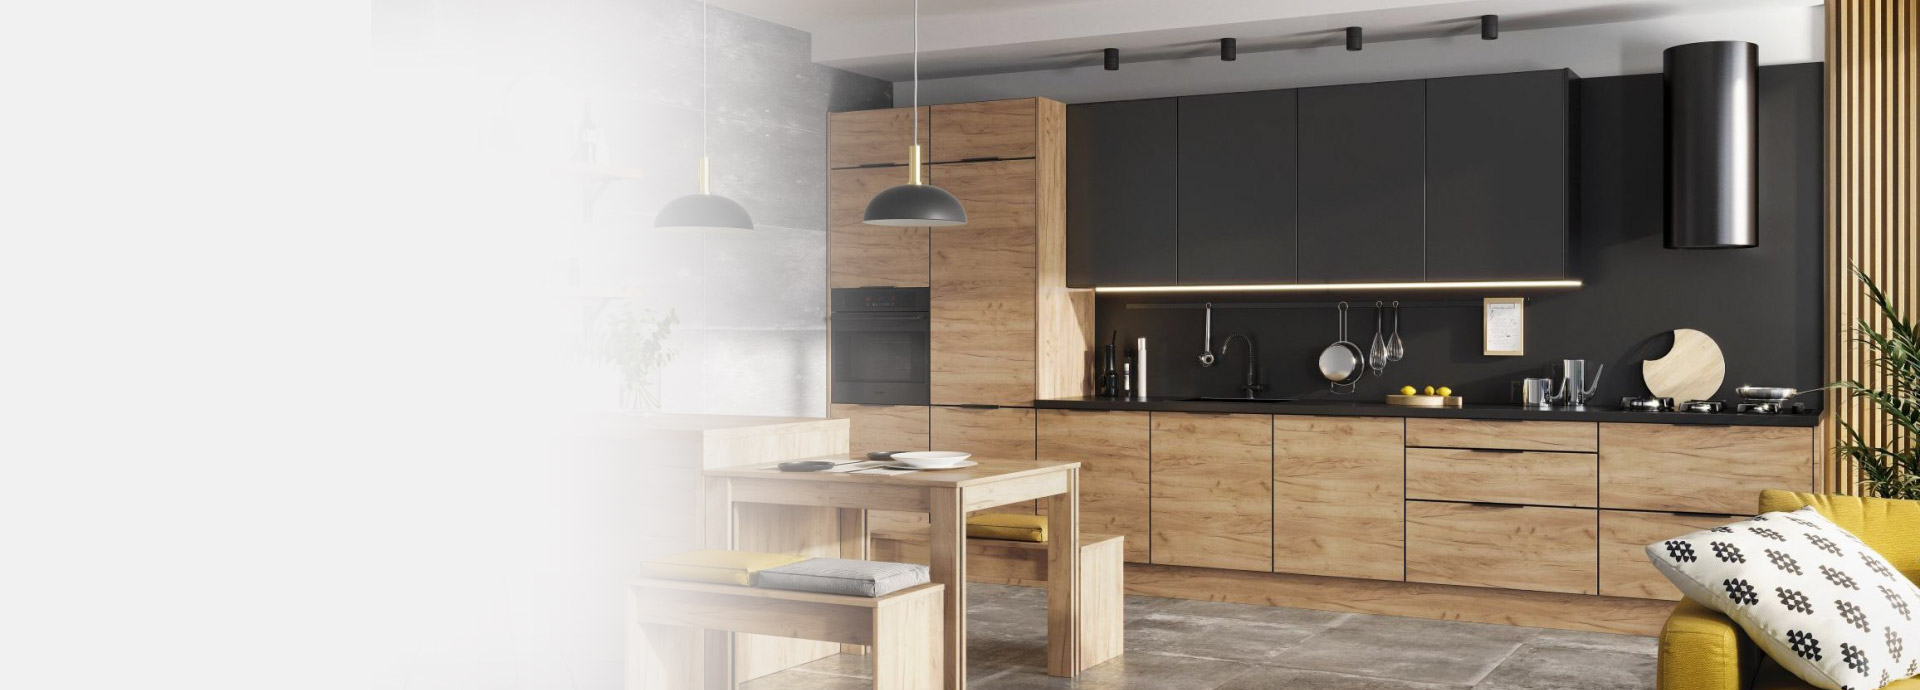
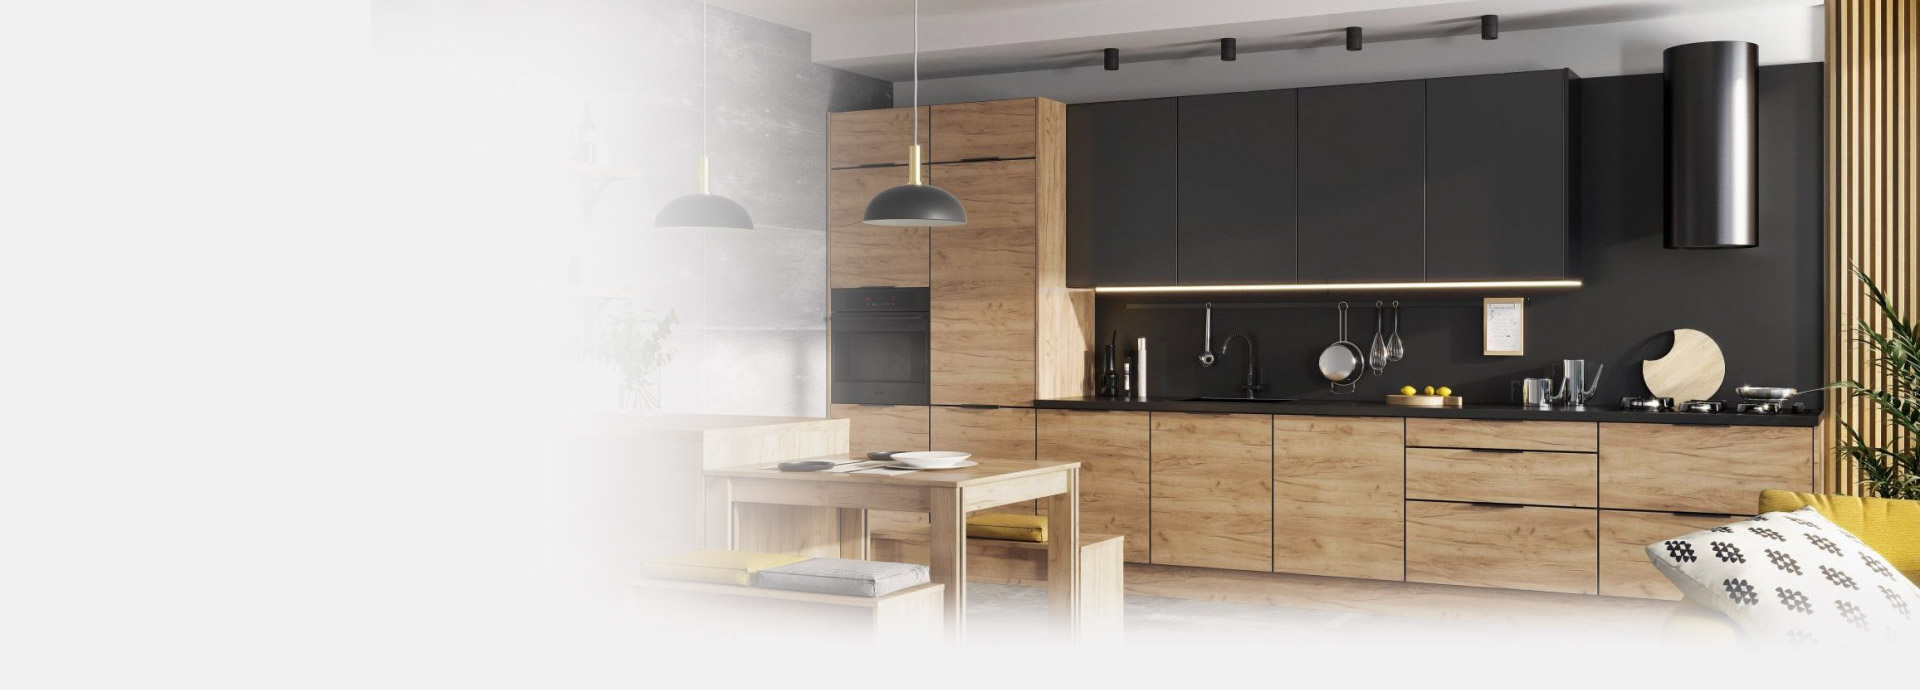
Poprawki

Changed region(s): [[0.3438, 0.8217, 1.0, 1.0]]

diff --git a/css/style.css b/css/style.css
@@ -83,6 +83,7 @@ body {
 .navbar {
   position: fixed;
   left: 0;
+  top: 0;
   right: 0;
   width: 100%;
   background-color: #fff;
@@ -134,11 +135,13 @@ body {
   transition: 0.2s;
   -webkit-transform: translateY(-200%);
           transform: translateY(-200%);
+  opacity: 0;
 }
 
 .menu_active {
   -webkit-transform: translateY(0);
           transform: translateY(0);
+  opacity: 1;
 }
 
 .menu__nav {
@@ -231,10 +234,11 @@ body {
 }
 
 .hero {
-  background: #f1f1f1 url("../img/hero/hero-bg.jpg") no-repeat center top 80px;
-  background-size: contain;
-  padding-top: 180px;
+  background: #f1f1f1 url("../img/hero/hero-bg.jpg") no-repeat center top;
+  background-size: cover;
+  padding-top: 120px;
   padding-bottom: 270px;
+  margin-top: 80px;
 }
 
 .hero__title {
@@ -251,8 +255,9 @@ body {
 
 @media (max-width: 991px) {
   .hero {
-    background-size: cover;
-    background-position: top left 30%;
+    margin-top: 60px;
+    background-size: 100%;
+    background-position: top right;
   }
 }
 /*# sourceMappingURL=style.css.map */

diff --git a/sass/blocks/_hero.sass b/sass/blocks/_hero.sass
@@ -1,8 +1,9 @@
 .hero
-    background: #f1f1f1 url('../img/hero/hero-bg.jpg') no-repeat center top 80px
-    background-size: contain
-    padding-top: 180px
+    background: #f1f1f1 url('../img/hero/hero-bg.jpg') no-repeat center top
+    background-size: cover
+    padding-top: 120px
     padding-bottom: 270px
+    margin-top: 80px
     &__title
         font-size: 30px
         margin-bottom: 40px
@@ -14,8 +15,9 @@
 
 @media (max-width: 991px)
     .hero
-        background-size: cover
-        background-position: top left 30%
+        margin-top: 60px
+        background-size: 100%
+        background-position: top right
     
 
         

diff --git a/sass/blocks/_navbar.sass b/sass/blocks/_navbar.sass
@@ -1,6 +1,7 @@
 .navbar
     position: fixed
     left: 0
+    top: 0
     right: 0
     width: 100%
     background-color: #fff
@@ -35,8 +36,10 @@
     color: $white
     transition: 0.2s
     transform: translateY(-200%)
+    opacity: 0
     &_active
         transform: translateY(0)
+        opacity: 1
     &__nav
         display: flex
         align-items: center
